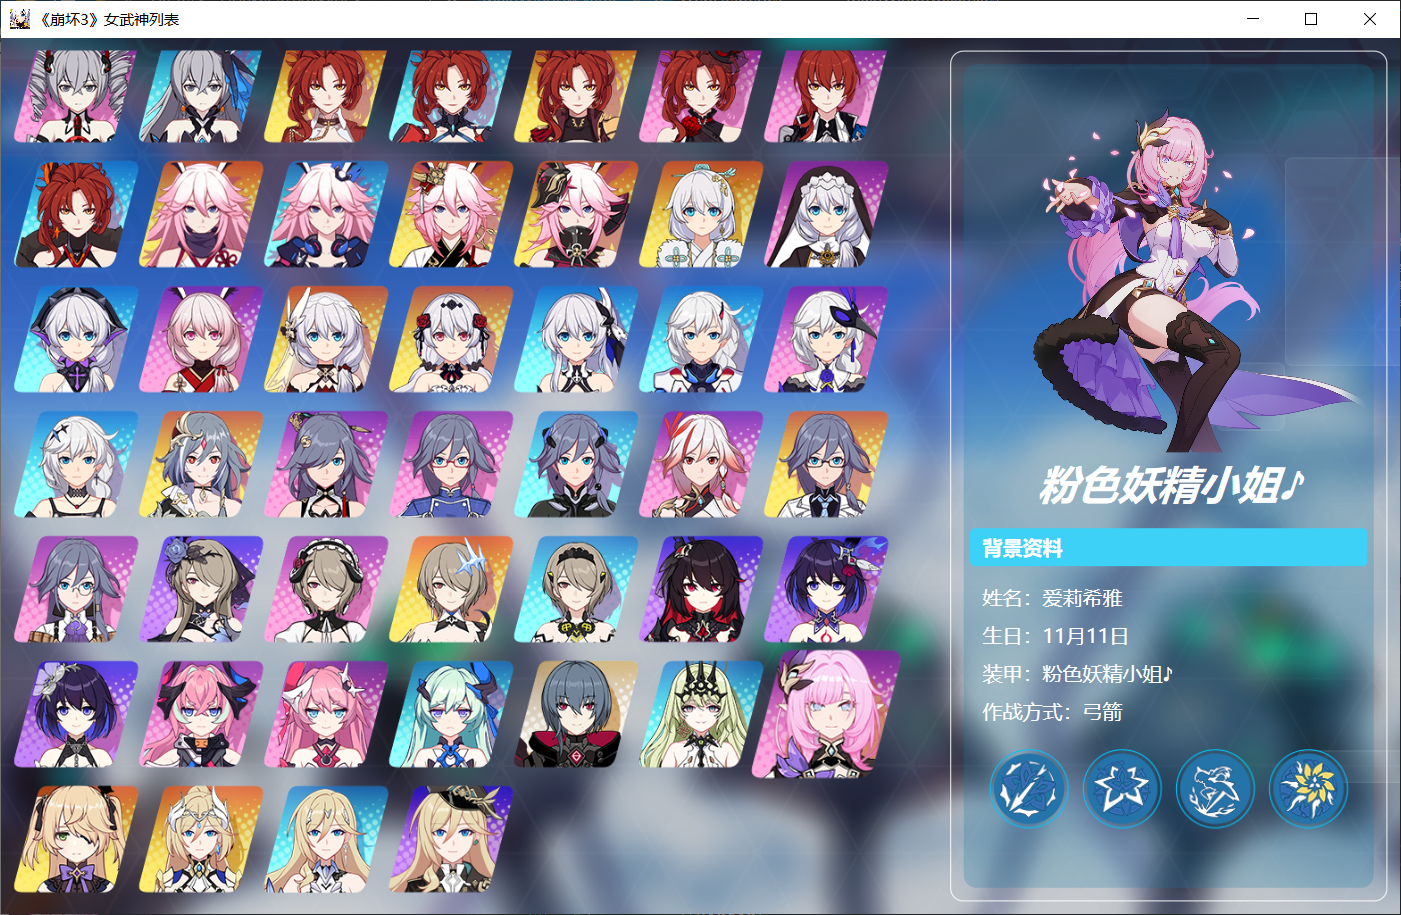
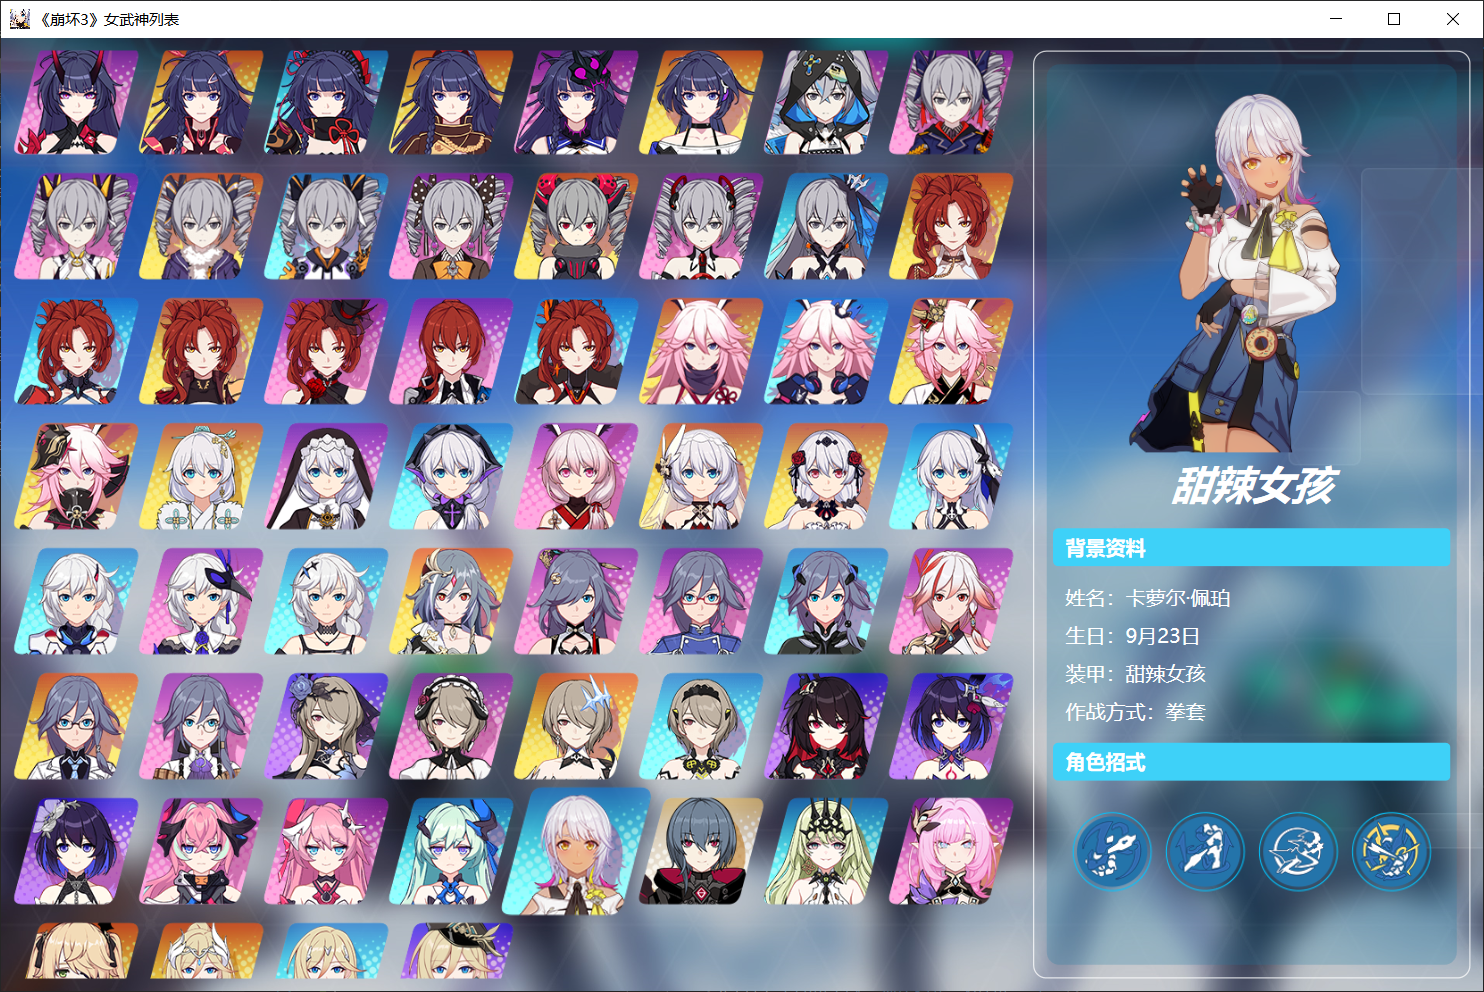
performance & ui improvements
improve code logics;
improve the image display for both avatar and portrait;
improve the ui of the right panel;
add download image function to the portrait in the right panel.

diff --git a/Valkyria/MainWindow.xaml b/Valkyria/MainWindow.xaml
@@ -11,6 +11,13 @@
         Loaded="Window_Loaded"
         WindowStartupLocation="CenterScreen"
         mc:Ignorable="d">
+    <Window.Resources>
+        <ResourceDictionary>
+            <ResourceDictionary.MergedDictionaries>
+                <ResourceDictionary Source="Style/Styles.xaml" />
+            </ResourceDictionary.MergedDictionaries>
+        </ResourceDictionary>
+    </Window.Resources>
     <Window.Background>
         <ImageBrush ImageSource="bg.jpg" />
     </Window.Background>
@@ -20,7 +27,13 @@
             <ColumnDefinition Width="Auto" />
         </Grid.ColumnDefinitions>
         <ScrollViewer Margin="10,10,0,10" VerticalScrollBarVisibility="Hidden" HorizontalScrollBarVisibility="Disabled">
-            <WrapPanel Name="ValkyriesAvatarBox" />
+            <WrapPanel Name="ValkyriesAvatarBox">
+                <WrapPanel.Resources>
+                    <Style TargetType="Image" BasedOn="{StaticResource AvatarBox}">
+                        <EventSetter Event="MouseUp" Handler="Avatar_Click" />
+                    </Style>
+                </WrapPanel.Resources>
+            </WrapPanel>
         </ScrollViewer>
 
         <Border Name="DetailPanel"
@@ -35,12 +48,28 @@
                 <SolidColorBrush Opacity="0.75" Color="White" />
             </Border.BorderBrush>
             <Border Padding="5" CornerRadius="10">
+                <Border.Effect>
+                    <DropShadowEffect Opacity="0.1" Direction="0" ShadowDepth="6" />
+                </Border.Effect>
                 <Border.Background>
                     <SolidColorBrush Opacity="0.25" Color="#197da4" />
                 </Border.Background>
                 <ScrollViewer HorizontalScrollBarVisibility="Disabled" VerticalScrollBarVisibility="Hidden">
                     <StackPanel>
-                        <Image Name="ValkyrieTachie" />
+                        <StackPanel.Resources>
+                            <Style TargetType="TextBlock">
+                                <Setter Property="FontSize" Value="16" />
+                                <Setter Property="Margin" Value="10,5" />
+                                <Setter Property="Foreground" Value="White" />
+                            </Style>
+                        </StackPanel.Resources>
+                        <Image Name="ValkyrieProtrait" Margin="-15,-18,-15,0" RenderOptions.BitmapScalingMode="Fant">
+                            <Image.ContextMenu>
+                                <ContextMenu>
+                                    <MenuItem Header="保存图片" Click="SaveImage_Click" />
+                                </ContextMenu>
+                            </Image.ContextMenu>
+                        </Image>
                         <Label Name="ValkyrieName"
                                HorizontalAlignment="Center"
                                Content="领域装·白练"
@@ -49,39 +78,27 @@
                                FontWeight="Bold"
                                FontStyle="Italic"
                                Foreground="White" />
-                        <StackPanel>
-                            <StackPanel.Resources>
-                                <Style TargetType="TextBlock">
-                                    <Setter Property="FontSize" Value="16" />
-                                    <Setter Property="Margin" Value="10,5" />
-                                    <Setter Property="Foreground" Value="White" />
-                                </Style>
-                            </StackPanel.Resources>
-                            <Border Margin="0,10" Background="#3ed1f8" CornerRadius="4">
-                                <TextBlock Margin="10,5" Text="背景资料" FontWeight="Bold" />
-                            </Border>
-                            <TextBlock Name="VName" Text="姓名：琪亚娜·卡斯兰娜" />
-                            <TextBlock Name="VAge" Text="年龄：16 岁" />
-                            <TextBlock Name="VArmor" Text="装甲：领域装·白练" />
-                            <TextBlock Name="VSkill" Text="作战方式：枪斗术" />
-                        </StackPanel>
-                        <Grid Name="SkillPanel" Margin="10,10">
-                            <Grid.ColumnDefinitions>
-                                <ColumnDefinition />
-                                <ColumnDefinition />
-                                <ColumnDefinition />
-                                <ColumnDefinition />
-                            </Grid.ColumnDefinitions>
-                            <Grid.Resources>
+                        <Border Margin="0,10" Style="{StaticResource HeaderBox}">
+                            <TextBlock Text="背景资料" />
+                        </Border>
+                        <TextBlock Name="VName" Text="姓名：琪亚娜·卡斯兰娜" />
+                        <TextBlock Name="VAge" Text="年龄：16 岁" />
+                        <TextBlock Name="VArmor" Text="装甲：领域装·白练" />
+                        <TextBlock Name="VSkill" Text="作战方式：枪斗术" />
+                        <Border Margin="0,10" Style="{StaticResource HeaderBox}">
+                            <TextBlock Text="角色招式" />
+                        </Border>
+                        <UniformGrid Name="SkillPanel" Margin="10,0" Columns="4">
+                            <UniformGrid.Resources>
                                 <Style TargetType="Image">
                                     <Setter Property="Margin" Value="5" />
                                 </Style>
-                            </Grid.Resources>
+                            </UniformGrid.Resources>
                             <Image Name="Skill1" />
                             <Image Name="Skill2" Grid.Column="1" />
                             <Image Name="Skill3" Grid.Column="2" />
                             <Image Name="Skill4" Grid.Column="3" />
-                        </Grid>
+                        </UniformGrid>
                     </StackPanel>
                 </ScrollViewer>
             </Border>

diff --git a/Valkyria/Style/Styles.xaml b/Valkyria/Style/Styles.xaml
@@ -1,0 +1,44 @@
+<ResourceDictionary xmlns="http://schemas.microsoft.com/winfx/2006/xaml/presentation" xmlns:x="http://schemas.microsoft.com/winfx/2006/xaml">
+
+    <Style x:Key="HeaderBox" TargetType="Border">
+        <Setter Property="Background" Value="#3ed1f8" />
+        <Setter Property="CornerRadius" Value="4" />
+        <Style.Resources>
+            <Style TargetType="TextBlock">
+                <Setter Property="FontSize" Value="16" />
+                <Setter Property="Margin" Value="10,5" />
+                <Setter Property="FontWeight" Value="Bold" />
+                <Setter Property="Foreground" Value="White" />
+            </Style>
+        </Style.Resources>
+    </Style>
+
+    <Style x:Key="AvatarBox" TargetType="Image">
+        <Setter Property="Margin" Value="0" />
+        <Setter Property="RenderOptions.BitmapScalingMode" Value="Fant" />
+        <Setter Property="Cursor" Value="Hand" />
+        <Style.Triggers>
+            <EventTrigger RoutedEvent="MouseEnter">
+                <BeginStoryboard>
+                    <Storyboard>
+                        <ThicknessAnimation Storyboard.TargetProperty="Margin"
+                                            From="0"
+                                            To="-10"
+                                            Duration="0:0:0.1" />
+                    </Storyboard>
+                </BeginStoryboard>
+            </EventTrigger>
+            <EventTrigger RoutedEvent="MouseLeave">
+                <BeginStoryboard>
+                    <Storyboard>
+                        <ThicknessAnimation Storyboard.TargetProperty="Margin"
+                                            From="-10"
+                                            To="0"
+                                            Duration="0:0:0.1" />
+                    </Storyboard>
+                </BeginStoryboard>
+            </EventTrigger>
+        </Style.Triggers>
+    </Style>
+
+</ResourceDictionary>

diff --git a/Valkyria/MainWindow.xaml.cs b/Valkyria/MainWindow.xaml.cs
@@ -9,6 +9,8 @@ using HtmlAgilityPack;
 using System.Diagnostics;
 using System.Windows.Media.Animation;
 using Valkyrie.Utils;
+using System.IO;
+using Forms = System.Windows.Forms;
 
 namespace Valkyrie
 {
@@ -23,7 +25,7 @@ namespace Valkyrie
 
         private async void Window_Loaded(object sender, RoutedEventArgs e)
         {
-            var html = await WebHelper.LoadHtml("https://www.bh3.com/valkyries").ConfigureAwait(true);
+            var html = await WebHelper.LoadHtmlAsync("https://www.bh3.com/valkyries").ConfigureAwait(true);
 
             var htmlDoc = new HtmlDocument();
             htmlDoc.LoadHtml(html);
@@ -46,43 +48,13 @@ namespace Valkyrie
                     Width = 100
                 };
 
-                Image image = new Image();
-                image.Source = new BitmapImage(new Uri(imgsrc));
-                image.Margin = new Thickness(0);
-                image.Tag = "https://www.bh3.com" + link;
-                image.MouseUp += Avatar_Click;
-                
-                // 修改图片的光标样式
-                image.Cursor = Cursors.Hand;
-
-                image.Name = "image" + index;
-                this.RegisterName(image.Name, image);
-
-                ThicknessAnimation zoomin = new ThicknessAnimation
+                Image image = new Image
                 {
-                    From = new Thickness(0),
-                    To = new Thickness(-10),
-                    Duration = new Duration(TimeSpan.FromSeconds(.1))
+                    Source = new BitmapImage(new Uri(imgsrc)),
+                    Tag = "https://www.bh3.com" + link,
+                    Name = "image" + index
                 };
-                ThicknessAnimation zoomout = new ThicknessAnimation
-                {
-                    From = new Thickness(-10),
-                    To = new Thickness(0),
-                    Duration = new Duration(TimeSpan.FromSeconds(.1))
-                };
-
-                Storyboard.SetTargetName(zoomin, image.Name);
-                Storyboard.SetTargetProperty(zoomin, new PropertyPath(Image.MarginProperty));
-                Storyboard.SetTargetName(zoomout, image.Name);
-                Storyboard.SetTargetProperty(zoomout, new PropertyPath(Image.MarginProperty));
-
-                Storyboard zoominStoryboard = new Storyboard();
-                zoominStoryboard.Children.Add(zoomin);
-                Storyboard zoomoutStoryboard = new Storyboard();
-                zoomoutStoryboard.Children.Add(zoomout);
-
-                image.MouseEnter += (object o, MouseEventArgs args) => zoominStoryboard.Begin(image);
-                image.MouseLeave += (object o, MouseEventArgs args) => zoomoutStoryboard.Begin(image);
+                //this.RegisterName(image.Name, image);
 
                 border.Child = image;
                 ValkyriesAvatarBox.Children.Add(border);
@@ -95,7 +67,7 @@ namespace Valkyrie
         {
             var image = sender as Image;
 
-            var html = await WebHelper.LoadHtml((string)image.Tag);
+            var html = await WebHelper.LoadHtmlAsync((string)image.Tag).ConfigureAwait(true);
             var doc = new HtmlDocument();
             doc.LoadHtml(html);
             var root = doc.DocumentNode;
@@ -104,7 +76,7 @@ namespace Valkyrie
             var imgsrc = root.SelectSingleNode("//div[@class='big-img']");
 
             DetailPanel.Visibility = Visibility.Visible;
-            ValkyrieTachie.Source = new BitmapImage(new Uri(imgsrc.SelectSingleNode(".//img").Attributes["src"].Value));
+            ValkyrieProtrait.Source = new BitmapImage(new Uri(imgsrc.SelectSingleNode(".//img").Attributes["src"].Value));
 
             // 显示女武神信息
             var info = root.SelectSingleNode(".//div[@class='valkyries-detail-bd__card']/div");
@@ -128,7 +100,30 @@ namespace Valkyrie
 
         private void DetailPanel_MouseUp(object sender, MouseButtonEventArgs e)
         {
-            DetailPanel.Visibility = Visibility.Collapsed;
+            if (e.ChangedButton == MouseButton.Left)
+            {
+                DetailPanel.Visibility = Visibility.Collapsed;
+            }
+        }
+
+        private void SaveImage_Click(object sender, RoutedEventArgs e)
+        {
+            using (var open = new Forms.SaveFileDialog())
+            {
+                open.Filter = "PNG|*.png";
+                open.FileName = ValkyrieName.Content.ToString() + ".png";
+                if (open.ShowDialog() == Forms.DialogResult.OK)
+                {
+                    var path = open.FileName;
+                    var bitmap = ValkyrieProtrait.Source as BitmapImage;
+                    var encoder = new PngBitmapEncoder();
+                    encoder.Frames.Add(BitmapFrame.Create(bitmap));
+                    using (var stream = File.Create(path))
+                    {
+                        encoder.Save(stream);
+                    }
+                }
+            }
         }
     }
 }

diff --git a/Valkyries.Utils/WebHelper.cs b/Valkyries.Utils/WebHelper.cs
@@ -6,16 +6,18 @@ namespace Valkyrie.Utils
 {
     public static class WebHelper
     {
-        public static async Task<string> LoadHtml(string url)
+        public static async Task<string> LoadHtmlAsync(Uri url)
         {
             HttpClient client = new HttpClient();
-            using (var response = await client.GetAsync(url))
-            {
-                if (response.IsSuccessStatusCode)
-                    return response.Content.ReadAsStringAsync().Result;
-                else
-                    throw new Exception(response.ReasonPhrase);
-            }
+            HttpResponseMessage response = await client.GetAsync(url);
+            response.EnsureSuccessStatusCode();
+            string responseBody = await response.Content.ReadAsStringAsync();
+            return responseBody;
+        }
+
+        public static async Task<string> LoadHtmlAsync(string url)
+        {
+            return await LoadHtmlAsync(new Uri(url));
         }
     }
 }
